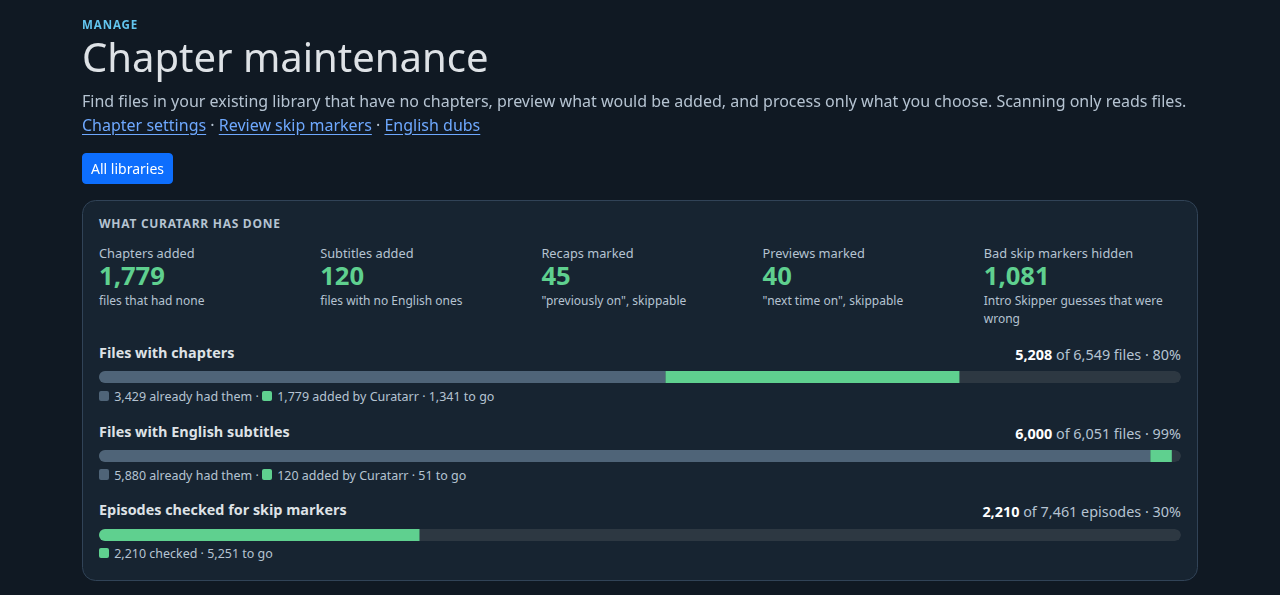
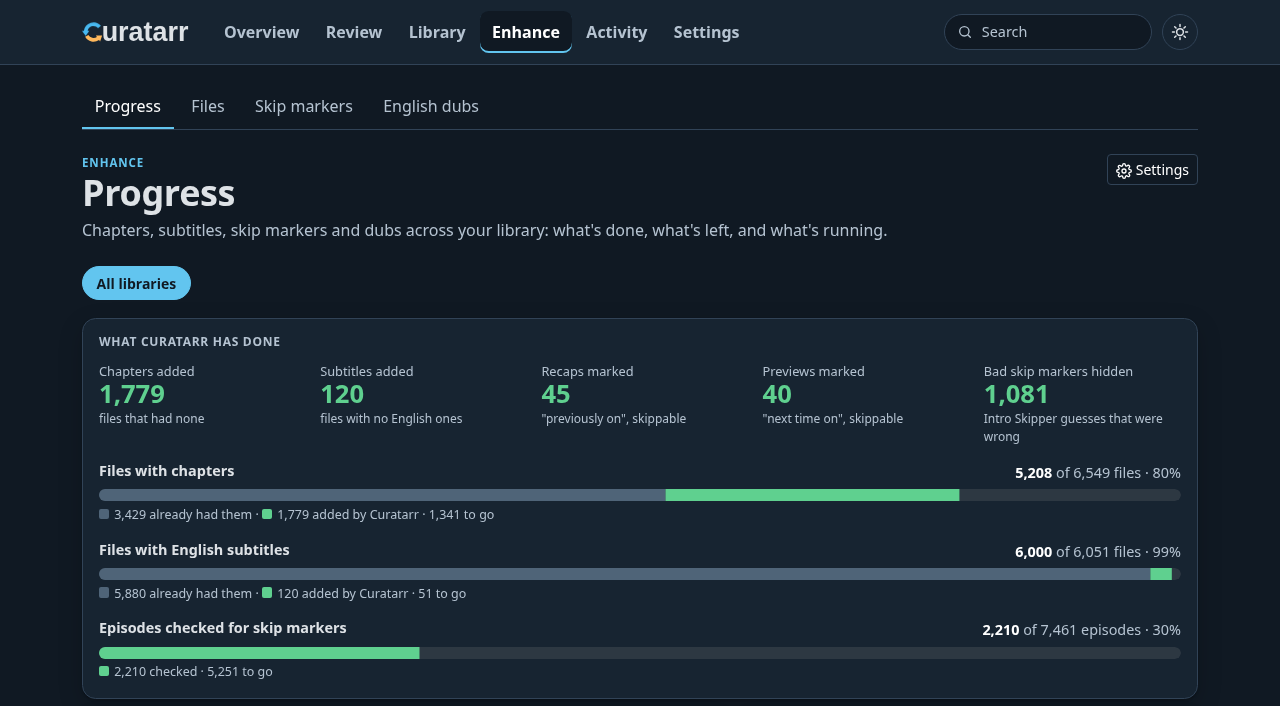
feat: Enhancements panel on title pages; docs follow the new layout
Each title's page shows, per file (episodes grouped by season, the newest
open), its chapters, generated subtitles, the recap and preview Curatarr
marked, the skip markers it fixed and the English-audio check, as chips,
each linking to the file's preview and actions. Page eyebrows, notices and
the docs now use Enhance and Settings instead of Manage and Chapter
maintenance, and the README screenshots show the new layout.

diff --git a/curatarr/templates/title.html b/curatarr/templates/title.html
@@ -19,10 +19,35 @@
 {% if is_admin and candidate.score_detail_json %}<details><summary>Decision score and observations</summary><pre class="overflow-auto">{{ candidate.score_detail_json|tojson(indent=2) }}</pre></details>{% endif %}</div>
 {% else %}<p class="mb-0">No cleanup decision has been recorded for this title.</p>{% endfor %}
 </div>
-{% if is_admin and chapter_rows %}<details class="card p-3 mb-4"{% if media.media_type == 'movie' %} open{% endif %}><summary class="h5 mb-0">Chapters</summary>
-<div class="table-responsive mt-3"><table class="table table-sm align-middle mb-0"><thead><tr>{% if media.media_type == 'series' %}<th scope="col">Episode</th>{% endif %}<th scope="col">Chapters</th><th scope="col">Source</th><th scope="col">Count</th><th scope="col">Last processed</th><th scope="col">Generated subtitles</th><th scope="col"><span class="visually-hidden">Actions</span></th></tr></thead><tbody>
-{% for part, chapters in chapter_rows %}<tr>{% if media.media_type == 'series' %}<td class="text-nowrap">S{{ '%02d'|format(part.season_number or 0) }}E{{ '%02d'|format(part.episode_number or 0) }}{{ jellyfin_part_link(part, media) }}</td>{% endif %}<td>{{ chapters.label }}{% if chapters.queued %} · queued{% endif %}</td><td>{{ chapters.source }}</td><td>{{ chapters.count if chapters.count is not none else '—' }}</td><td>{{ chapters.processed_at|when('date') if chapters.processed_at else '—' }}</td><td>{{ chapters.subtitles }}</td><td><a href="{{ url_for('main.chapter_part', part_id=part.id) }}">Preview and actions</a></td></tr>{% endfor %}
-</tbody></table></div></details>{% endif %}
+{% if is_admin and chapter_rows %}
+{% macro clock(seconds) %}{{ '%d:%02d'|format((seconds or 0) // 60, (seconds or 0) % 60) }}{% endmacro %}
+{% macro file_row(part, c) %}<li class="enh-row">
+  <div class="enh-name">{% if media.media_type == 'series' %}<strong>E{{ '%02d'|format(part.episode_number or 0) }}</strong>{% else %}<strong>{{ media.title }}</strong>{% endif %}{{ jellyfin_part_link(part, media) }}</div>
+  <div class="enh-chips">
+    <span class="chip{{ ' chip-on' if c.label in ('Generated', 'Existing') }}" title="Chapters: {{ c.label }}{% if c.source != '—' %}, {{ c.source }}{% endif %}">{{ icon('chapters', 12) }} {% if c.count %}{{ c.count }} chapters{% else %}{{ c.label }}{% endif %}{% if c.queued %} · queued{% endif %}</span>
+    {% if c.subtitles_ours %}<span class="chip chip-on" title="Generated subtitles">{{ icon('subtitles', 12) }} Generated subtitles</span>{% endif %}
+    {% if c.recap %}<span class="chip chip-accent" title="Recap Curatarr marked">{{ icon('skip', 12) }} Recap {{ clock(c.recap[0]) }}–{{ clock(c.recap[1]) }}</span>{% endif %}
+    {% if c.preview %}<span class="chip chip-accent" title="Preview Curatarr marked">{{ icon('skip', 12) }} Preview</span>{% endif %}
+    {% if c.markers_fixed %}<span class="chip" title="Intro Skipper markers Curatarr hid or trimmed">{{ c.markers_fixed }} marker{{ '' if c.markers_fixed == 1 else 's' }} fixed</span>{% endif %}
+    {% if c.dub %}<span class="chip chip-{{ c.dub[1] }}">{{ icon('audio', 12) }} {{ c.dub[0] }}</span>{% endif %}
+  </div>
+  <a class="enh-go" href="{{ url_for('main.chapter_part', part_id=part.id) }}" aria-label="Preview and actions for {{ 'E%02d'|format(part.episode_number or 0) if media.media_type == 'series' else media.title }}">Preview and actions {{ icon('chevron', 14) }}</a>
+</li>{% endmacro %}
+<section class="card p-3 mb-4" aria-labelledby="enhance-heading">
+  <h2 class="h5 mb-1" id="enhance-heading">{{ icon('enhance', 18) }} Enhancements</h2>
+  <p class="small text-secondary mb-3">What Curatarr has done to {{ 'each episode' if media.media_type == 'series' else 'this file' }}: chapters, generated subtitles, recaps and previews it marked, skip markers it fixed{% if media.media_type == 'movie' %}, and its English audio{% endif %}.</p>
+  {% if media.media_type == 'series' %}
+    {% set seasons = chapter_rows|groupby('0.season_number') %}
+    {% for season, rows in seasons %}
+    <details class="enh-season"{% if seasons|length == 1 or loop.last %} open{% endif %}><summary><strong>Season {{ season or 0 }}</strong><span class="small text-secondary">{{ rows|length }} episode{{ '' if rows|length == 1 else 's' }}{% set done = rows|selectattr('1.count')|list|length %} · {{ done }} with chapters</span>{{ icon('chevron', 16) }}</summary>
+      <ul class="enh-list list-unstyled mb-0">{% for part, c in rows %}{{ file_row(part, c) }}{% endfor %}</ul>
+    </details>
+    {% endfor %}
+  {% else %}
+    <ul class="enh-list list-unstyled mb-0">{% for part, c in chapter_rows %}{{ file_row(part, c) }}{% endfor %}</ul>
+  {% endif %}
+</section>
+{% endif %}
 {% if is_admin and actions %}<h2 class="h5">Recent history</h2><ul>{% for action in actions %}<li><a href="{{ url_for('main.history_detail', action_id=action.id) }}">{{ action.action_type.replace('_',' ')|title }}</a> · {{ action.state }} · {{ action.reason_text }}</li>{% endfor %}</ul>{% endif %}
 {% if is_admin %}<details class="mt-4"><summary class="h5">Advanced: overrides and effective policy</summary><div class="pt-3">
 <form method="post" class="card p-4"><input type="hidden" name="csrf_token" value="{{ csrf_token }}"><div class="row g-3">

diff --git a/curatarr/templates/chapter_dubs.html b/curatarr/templates/chapter_dubs.html
@@ -4,9 +4,9 @@
 {% macro film(state) %}<a class="h5" href="{{ url_for('main.chapter_part', part_id=state.media_part_id) }}">{{ file_label(state) }}</a>{{ jellyfin_part_link(state.part, state.media) }}<div class="small text-secondary text-break">{{ state.part.file_path }}</div>{% endmacro %}
 {% macro button(state, action, label, style='btn-outline-light') %}<form method="post" action="{{ url_for('main.chapter_dub_action', state_id=state.id, action=action) }}"><input type="hidden" name="csrf_token" value="{{ csrf_token }}"><button class="btn btn-sm {{ style }}">{{ label }}</button></form>{% endmacro %}
 {% block content %}
-<div class="eyebrow">Manage · <a href="{{ url_for('main.chapter_maintenance') }}">Chapter maintenance</a></div><h1>English dubs</h1>
+<div class="eyebrow">Enhance</div><h1>English dubs</h1>
 <p class="text-secondary">For films made in another language, Curatarr listens to a few moments of each audio track and checks it's the language its label says. Wrong labels are corrected and a real English track is made the default on their own (and, if that setting is on, tracks in other languages removed); a film with no English audio is listed here to replace. Films made in English are listened to only when their file has another language in it. {{ found.checked|commas }} foreign-language film{{ '' if found.checked == 1 else 's' }} checked so far.</p>
-{% if not enabled %}<div class="alert alert-secondary">This check is off. Turn on “Check English dubs of foreign films” in <a href="{{ url_for('main.chapter_settings') }}">Chapter settings</a> to use it.</div>{% endif %}
+{% if not enabled %}<div class="alert alert-secondary">This check is off. Turn on “Check English dubs of foreign films” in <a href="{{ url_for('main.chapter_settings') }}">Settings → Enhance</a> to use it.</div>{% endif %}
 <h2 class="h4">No English audio</h2>
 {% for state in found.to_act %}
 <div class="card p-3 mb-3">

diff --git a/curatarr/static/style.css b/curatarr/static/style.css
@@ -282,3 +282,23 @@ h1 { font-size: clamp(1.6rem, 1.2rem + 1.4vw, 2.25rem); font-weight: 600; letter
   .table-stack td[data-label]::before { content: attr(data-label) " · "; color: var(--app-muted); font-size: .8rem; }
   .table-stack td[colspan] { padding: .5rem 0; }
 }
+
+/* --- Title page: Enhancements panel ---------------------------------------------------- */
+#enhance-heading { display: flex; align-items: center; gap: .45rem; }
+#enhance-heading .icon { color: var(--app-accent); }
+.enh-season { border: 1px solid var(--app-border); border-radius: .7rem; background: var(--app-bg); }
+.enh-season + .enh-season { margin-top: .5rem; }
+.enh-season > summary { list-style: none; display: flex; align-items: center; gap: .7rem; padding: .65rem .9rem; }
+.enh-season > summary::-webkit-details-marker { display: none; }
+.enh-season > summary .icon { margin-left: auto; color: var(--app-muted); transition: transform .15s; }
+.enh-season[open] > summary .icon { transform: rotate(90deg); }
+.enh-season[open] > summary { border-bottom: 1px solid var(--app-border); }
+.enh-list { display: grid; }
+.enh-row { display: grid; grid-template-columns: minmax(4rem, auto) 1fr auto; align-items: center; gap: .4rem .9rem; padding: .55rem .9rem; }
+.enh-row + .enh-row { border-top: 1px solid var(--app-border); }
+.enh-chips { display: flex; flex-wrap: wrap; gap: .3rem; }
+.enh-go { font-size: .8rem; white-space: nowrap; text-decoration: none; display: inline-flex; align-items: center; gap: .1rem; }
+@media (max-width: 575.98px) {
+  .enh-row { grid-template-columns: 1fr auto; }
+  .enh-chips { grid-column: 1 / -1; grid-row: 2; }
+}

diff --git a/curatarr/templates/chapter_confirm.html b/curatarr/templates/chapter_confirm.html
@@ -1,7 +1,7 @@
 {% extends 'base.html' %}
 {% block title %}Process library · Curatarr{% endblock %}
 {% block content %}
-<div class="eyebrow">Manage · Chapter maintenance</div><h1>Add chapters to {{ name }}</h1>
+<div class="eyebrow">Enhance</div><h1>Add chapters to {{ name }}</h1>
 <div class="card p-4"><p>This queues <strong>{{ count }}</strong> file{{ '' if count == 1 else 's' }} without chapters in {{ name }}. Each is processed in the background, one or a few at a time, using <strong>{{ ('Smart Chapters' if config.mode == 'smart' else 'Navigation Chapters') }}</strong>{% if not library %} (or each library's own setting){% endif %}{% if config.processing.dry_run %} in <strong>dry run</strong> (nothing is modified){% endif %}.</p>
 <ul><li>Files scanned: {{ summary.scanned }} of {{ summary.files }}</li><li>Already have chapters (left alone): {{ summary.existing }}</li><li>Below the minimum length: {{ summary.short }}</li><li>Unsupported containers: {{ summary.unsupported }}</li>{% if config.mode == 'smart' and config.semantic.enabled %}<li>Would need transcription: {{ summary.transcription_estimate }} (each takes a few minutes of GPU time)</li>{% endif %}</ul>
 <p class="text-secondary">Chapters are written into each MKV file in place without re-encoding. Curatarr can remove the chapters it adds later, one file at a time.</p>

diff --git a/curatarr/templates/chapter_identity.html b/curatarr/templates/chapter_identity.html
@@ -1,9 +1,9 @@
 {% extends 'base.html' %}
 {% block title %}Possible wrong episodes · Curatarr{% endblock %}
 {% block content %}
-<div class="eyebrow">Manage · <a href="{{ url_for('main.chapter_maintenance') }}">Chapter maintenance</a></div><h1>Possible wrong episodes</h1>
+<div class="eyebrow">Enhance</div><h1>Possible wrong episodes</h1>
 <p class="text-secondary">Episodes whose transcript fits another episode's title and summary in Sonarr far better than their own (a misfiled or mislabelled download), or whose default audio isn't English. These are flags to check, not certainties: open the episode, and fix it in Sonarr if it's wrong. <strong>Dismiss</strong> one that's fine.</p>
-{% if not enabled %}<div class="alert alert-secondary">This check is off. Turn on “Check episodes against their summaries” in <a href="{{ url_for('main.chapter_settings') }}">Chapter settings</a> to use it.</div>
+{% if not enabled %}<div class="alert alert-secondary">This check is off. Turn on “Check episodes against their summaries” in <a href="{{ url_for('main.chapter_settings') }}">Settings → Enhance</a> to use it.</div>
 {% elif states %}
 {% for state in states %}{% set i = state.identity_issue %}
 <div class="card p-3 mb-3">

diff --git a/curatarr/templates/chapter_markers.html b/curatarr/templates/chapter_markers.html
@@ -2,7 +2,7 @@
 {% block title %}Skip markers · Curatarr{% endblock %}
 {% set kinds = {'recap': 'Recap marked', 'preview': 'Preview marked', 'hidden': 'Intro Skipper marker hidden'} %}
 {% block content %}
-<div class="eyebrow">Manage · <a href="{{ url_for('main.chapter_maintenance') }}">Chapter maintenance</a></div><h1>Skip markers</h1>
+<div class="eyebrow">Enhance</div><h1>Skip markers</h1>
 <p class="text-secondary">Recaps and previews Curatarr marked, and Intro Skipper markers it hid as wrong, newest first. Open an episode in Jellyfin and jump to the time shown to check it; <strong>Undo</strong> reverses one if it's wrong.</p>
 <div class="d-flex flex-wrap gap-2 mb-3" aria-label="Show">
   <a class="btn btn-sm {{ 'btn-primary' if not kind else 'btn-outline-light' }}" href="{{ url_for('main.chapter_markers') }}">Everything</a>

diff --git a/curatarr/templates/login.html b/curatarr/templates/login.html
@@ -4,7 +4,7 @@
 <div class="card p-4">
   <h1 class="h3">Sign in</h1>
   <p class="text-secondary">Use a Jellyfin administrator account or a household account enabled by an administrator. Curatarr checks your password with Jellyfin and does not store it.</p>
-  {% if demo_mode %}<p class="text-secondary small">Demo mode: sign in as <code>demo-admin</code> with password <code>demo</code>. An administrator can then enable <code>demo-viewer</code> in Manage.</p>{% endif %}
+  {% if demo_mode %}<p class="text-secondary small">Demo mode: sign in as <code>demo-admin</code> with password <code>demo</code>. An administrator can then enable <code>demo-viewer</code> in Settings → Integrations.</p>{% endif %}
   <form method="post">
     <input type="hidden" name="csrf_token" value="{{ csrf_token }}">
     {% if needs_server_url %}

diff --git a/curatarr/enrichment.py b/curatarr/enrichment.py
@@ -2153,7 +2153,32 @@ def describe(state: ChapterState | None) -> dict:
         }.get(state.subtitle_status if state else None, "—"),
         "subtitles_ours": bool(state and state.subtitle_fingerprint),
         "queued": bool(state and state.job_state in {"queued", "running"}),
+        "recap": (state.recap_start, state.recap_end)
+        if state and state.recap_end is not None
+        else None,
+        "preview": (state.preview_start, state.preview_end)
+        if state and state.preview_start is not None
+        else None,
+        "markers_fixed": len(state.markers_hidden or []) if state else 0,
+        "dub": _dub_label(state.dub_result if state else None),
     }
+
+
+def _dub_label(result) -> tuple[str, str] | None:
+    """(text, tone) for a film's dub check, or None when there's nothing to say."""
+    if not result or "verdict" not in result:
+        return None
+    if result.get("replaced"):
+        return "Replaced: no English audio", "accent"
+    if result["verdict"] == "no_english":
+        return "No English audio", "danger"
+    if result.get("removed"):
+        return "Other languages removed", "on"
+    if result.get("applied"):
+        return "English audio fixed", "on"
+    if result["verdict"] == "english":
+        return "English audio", "on"
+    return None
 
 
 def environment_status() -> dict:

diff --git a/tests/test_enrichment.py b/tests/test_enrichment.py
@@ -2059,3 +2059,22 @@ def test_credits_people_talk_through_are_trimmed_and_can_be_undone(
     enrichment.undo_marker(state, "hidden", "long")
     assert ("DELETE", "/Episode/jf-ep4/Segments/ours-Credits", None) in calls
     assert ("POST", "/Episode/jf-ep4/Segments/long/Restore", None) in calls
+
+
+def test_title_page_shows_what_curatarr_did_to_each_file(app, client, media_env):
+    _library, media, part = _movie()
+    state = enrichment.state_for(part)
+    state.duration_seconds, state.chapter_status, state.chapter_count = (
+        5400,
+        "generated_semantic",
+        9,
+    )
+    state.recap_start, state.recap_end = 0.0, 82.0
+    state.markers_hidden = [{"id": "x", "type": "Credits", "reason": "test"}]
+    state.dub_result = {"original": "fr", "verdict": "no_english"}
+    db.session.commit()
+    page = client.get(f"/titles/{media.id}").get_data(as_text=True)
+    panel = page.split('id="enhance-heading"')[1].split("</section>")[0]
+    assert "9 chapters" in panel and "Recap 0:00–1:22" in panel
+    assert "1 marker fixed" in panel and "No English audio" in panel
+    assert f"/chapters/parts/{part.id}" in panel

diff --git a/curatarr/chapter_routes.py b/curatarr/chapter_routes.py
@@ -92,7 +92,7 @@ def chapter_settings():
             db.session.rollback()
             flash(str(exc), "danger")
         else:
-            flash("Chapter settings saved", "success")
+            flash("Enhance settings saved", "success")
         return redirect(request.full_path.rstrip("?"))
     inherited = effective_config(global_layer()) if library else DEFAULTS
     effective = (

diff --git a/docs/FEATURES.md b/docs/FEATURES.md
@@ -9,7 +9,7 @@
 - [Search what was said](#search-what-was-said)
 - [Sharing the machine with playback](#sharing-the-machine-with-playback)
 
-The interface groups daily decisions under **Overview** and **Review**, title browsing under **Library**, and administrator controls under **Activity** and **Manage**. The theme button in the header switches between dark and light for that browser.
+The interface groups daily decisions under **Overview** and **Review**, title browsing under **Library**, and file improvements under **Enhance**, and administrator controls under **Activity** and **Settings**. The theme button in the header switches between dark and light for that browser.
 
 ---
 
@@ -21,7 +21,7 @@ Sign in with a Jellyfin account that has the **Administrator** permission, or wi
 - After five failed sign-ins from one address within 15 minutes, further attempts are refused until the window passes.
 - On first run, the sign-in page also asks for the Jellyfin server URL and binds Curatarr to it. Until that first administrator signs in, anyone who can reach the page could bind a different server, so keep Curatarr on a trusted network until setup is done, or set `CURATARR_JELLYFIN_URL` so the server is fixed from the start.
 
-**Household access.** Administrators can enable specific non-admin Jellyfin users in Manage → Integrations → Household access. Those users can browse managed titles, search what was said, and choose **Keep**, **Snooze** or **Never Purge** in Review. They can't approve deletion, change rules or integrations, run discovery, reset or request a show, or see full History and Operations. Curatarr rechecks their Jellyfin account periodically and ends a household session as soon as its allowlist entry is removed.
+**Household access.** Administrators can enable specific non-admin Jellyfin users in Settings → Integrations → Household access. Those users can browse managed titles, search what was said, and choose **Keep**, **Snooze** or **Never Purge** in Review. They can't approve deletion, change rules or integrations, run discovery, reset or request a show, or see full History and Operations. Curatarr rechecks their Jellyfin account periodically and ends a household session as soon as its allowlist entry is removed.
 
 `/health`, `/api/v1/status` and the token-protected webhook stay public for dashboards. Every other page and API endpoint requires sign-in, and operational APIs require administrator access (or the read-only API key; see [API](API.md)). Set `CURATARR_ALLOW_UNAUTHENTICATED=true` only when another layer, such as an authenticating reverse proxy, already restricts access: it grants the full admin interface.
 
@@ -75,7 +75,7 @@ Policy resolves **title override → library → global → built-in default**. 
 
 ## Chapters and subtitles
 
-Optional, and off until you enable it per library in **Manage → Chapters → Chapter settings**.
+Optional, and off until you enable it per library in **Settings → Enhance**.
 
 After Sonarr or Radarr finish importing a movie or episode of at least 20 minutes that has no chapters, Curatarr adds them:
 
@@ -85,9 +85,9 @@ After Sonarr or Radarr finish importing a movie or episode of at least 20 minute
 Chapters are written into MKV files in place with `mkvpropedit`, which re-encodes nothing; other containers are reported as unsupported. Every file is verified afterwards, and only that item is refreshed in Jellyfin.
 
 - **Existing chapters are preserved.** Curatarr regenerates or removes only chapters it can show it wrote, and keeps the originals of any it replaced.
-- **Your existing library is never processed by surprise.** Chapter maintenance scans it read-only, shows what's done and what's left, and processes only the files or libraries you confirm. Each file's page shows a preview: the scene changes, the plan from each method, and the exact write command, before anything is modified.
+- **Your existing library is never processed by surprise.** Enhance → Files scans it read-only, shows what's done and what's left, and processes only the files or libraries you confirm. Each file's page shows a preview: the scene changes, the plan from each method, and the exact write command, before anything is modified.
 - **Subtitles.** The same transcript can produce English subtitles (`<video>.en.Curatarr.srt`), a separate per-library setting. They're added only when a file has no English subtitles of its own, never written over another file, and removable from the file's page.
-- **Progress.** Chapter maintenance leads with what Curatarr has done (chapters and subtitles added, recaps and previews marked, bad markers hidden) and how much of the library is covered, then what's left to do, with an estimated finish based on the last day's pace.
+- **Progress.** Enhance → Progress leads with what Curatarr has done (chapters and subtitles added, recaps and previews marked, bad markers hidden) and how much of the library is covered, then what's left to do, with an estimated finish based on the last day's pace.
 
 Smart Chapters needs the `chapters` or `chapters-gpu` extra, Ollama with a model, and write access to the media files for the worker (see [Installing](INSTALL.md#optional-chapter-generation)). `flask --app curatarr chapters preview <file>` prints the full analysis for one file without changing it. Design notes: [decision 009](decisions/009-chapter-enrichment.md).
 
@@ -95,14 +95,14 @@ Smart Chapters needs the `chapters` or `chapters-gpu` extra, Ollama with a model
 
 ## Recaps, previews and skip markers
 
-With the Jellyfin **Intro Skipper** plugin installed, Curatarr improves the skip buttons Jellyfin shows. It works on episodes in libraries with Smart Chapters. Press **Check skip markers** in Chapter maintenance to check every episode not yet checked (press it again later for newly added ones), or check one episode from its page. Checks reuse Smart Chapters transcripts where they exist and wait while a chapter backlog is running.
+With the Jellyfin **Intro Skipper** plugin installed, Curatarr improves the skip buttons Jellyfin shows. It works on episodes in libraries with Smart Chapters. Press **Check skip markers** on Enhance → Progress to check every episode not yet checked (press it again later for newly added ones), or check one episode from its page. Checks reuse Smart Chapters transcripts where they exist and wait while a chapter backlog is running.
 
 - **Recaps.** A *"Previously on…"* segment is found from the opening transcript: a known opener phrase ("previously on", "last time on", "here's what you missed", …), and an end found from the series' own closing line or from where the quoted clips of earlier episodes stop. It's marked as an Intro Skipper **Recap** segment and, if the chapters are Curatarr's, a *Previously On* chapter.
 - **Previews.** A *"Next time on…"* segment at the end is marked as a **Preview** segment.
 - **Bad markers hidden.** Intro Skipper sometimes guesses wrong: a short "credits" marker with lots of dialogue after it, credits in the first quarter of an episode, an "intro" that's mostly unique dialogue. Curatarr hides those, recording why.
 - **Movies keep only their credits marker** (on by default). Opening chapter names like "Chapter 1" made Intro Skipper mark recaps and intros at the start of movies; they're hidden. Credits stay, for *Skip Credits* and *Next*.
 
-Everything is listed on **Review skip markers**, newest first, with the span, the reason and a link to the episode, and each change has **Undo**.
+Everything is listed on **Enhance → Skip markers**, newest first, with the span, the reason and a link to the episode, and each change has **Undo**.
 
 Jellyfin decides per user whether to show a Skip button for each segment type (Settings → Playback → Media segments). Some clients, such as the Roku app, keep their own per-device setting.
 
@@ -110,7 +110,7 @@ Jellyfin decides per user whether to show a Skip button for each segment type (S
 
 ## English dubs
 
-For households that watch films dubbed rather than subtitled. On by default; settings in Chapter settings.
+For households that watch films dubbed rather than subtitled. On by default; settings in Settings → Enhance.
 
 Radarr can grab an English dub of a film made in another language, but uploads are sometimes labelled English when the audio is really the original. For films whose original language (from Radarr) isn't English, and for English films whose file also carries other languages, Curatarr **listens**: five 20-second clips from the middle of the film, per audio track, through Whisper's language identification, with a voice filter so music isn't mistaken for speech. A track's language counts only when most clips agree with high confidence. This is not a transcription, and takes seconds per film.
 
@@ -133,7 +133,7 @@ For Radarr to grab dubs in the first place, its quality profile's language must 
 
 ## Search what was said
 
-**Library → Search what was said** (and `GET /api/v1/transcripts/search?q=…`) finds an episode or film by a line or what's talked about in it, across every transcript Smart Chapters has made. An exact phrase ranks first, then short windows holding most of the words; each result shows the moment's lines and timestamp, linked to the episode. Words are matched by rough stem ("frying" finds "fry"). Household accounts can use it too.
+**Search** (the box in the header, or Library → Search) (and `GET /api/v1/transcripts/search?q=…`) finds an episode or film by a line or what's talked about in it, across every transcript Smart Chapters has made. An exact phrase ranks first, then short windows holding most of the words; each result shows the moment's lines and timestamp, linked to the episode. Words are matched by rough stem ("frying" finds "fry"). Household accounts can use it too.
 
 ---
 
@@ -146,4 +146,4 @@ Chapter work is heavy (scene detection, transcription, a language model), and th
 - Below the target it adds a job, one a minute. Above it, nothing new starts and running jobs finish.
 - With **Make room for people watching** on, if someone is watching and the machine stays well over the target for 30 seconds, running jobs are suspended for at least two minutes and resume once there's room.
 
-**Chapter jobs at once** (1–8) is only the ceiling. The Activity card on Chapter maintenance says what was measured and decided, for example *Up to 3 chapter jobs right now · CPU 42%, 1 watching (aiming under 70%)*.
+**Chapter jobs at once** (1–8) is only the ceiling. The Activity card on Enhance → Progress says what was measured and decided, for example *Up to 3 chapter jobs right now · CPU 42%, 1 watching (aiming under 70%)*.

diff --git a/docs/INSTALL.md b/docs/INSTALL.md
@@ -93,7 +93,7 @@ Chapters, subtitles, recap and preview detection, and dub checks need a few more
    sudo systemctl restart curatarr-worker
    ```
 
-Then switch it on per library in **Manage → Chapters → Chapter settings**. If Sonarr and Radarr see the files under a different path than this machine does, add a path mapping there (for example `/tv => /mnt/media/tv`).
+Then switch it on per library in **Settings → Enhance**. If Sonarr and Radarr see the files under a different path than this machine does, add a path mapping there (for example `/tv => /mnt/media/tv`).
 
 ### Change settings
 
@@ -205,7 +205,7 @@ services:
               capabilities: [gpu]
 ```
 
-Then run `docker compose up -d --build`. Only the worker needs the media. In Chapter settings, add a path mapping from how Sonarr and Radarr see the files to `/media` (for example `/tv => /media/tv`), and point the Ollama URL at an Ollama the container can reach (for Ollama on the host, `http://host.docker.internal:11434` with `extra_hosts: ["host.docker.internal:host-gateway"]` on the worker, or the host's LAN address). Transcription models download to `/config/models`.
+Then run `docker compose up -d --build`. Only the worker needs the media. In Settings → Enhance, add a path mapping from how Sonarr and Radarr see the files to `/media` (for example `/tv => /media/tv`), and point the Ollama URL at an Ollama the container can reach (for Ollama on the host, `http://host.docker.internal:11434` with `extra_hosts: ["host.docker.internal:host-gateway"]` on the worker, or the host's LAN address). Transcription models download to `/config/models`.
 
 ---
 
@@ -298,7 +298,7 @@ Logs: `docker compose logs --tail=100 web worker`. Don't use `docker compose dow
 ## First run
 
 1. **Sign in.** Open `http://<your-server>:8787` and sign in with a Jellyfin **administrator** account. On the very first sign-in, also enter your Jellyfin server's address (unless `CURATARR_JELLYFIN_URL` is set). Do this before exposing Curatarr beyond a trusted network: until then, anyone who can reach the page could bind it to a different server.
-2. **Connect your apps.** Follow the **Setup** checklist (Manage → Setup) and add the API keys in Manage → Integrations:
+2. **Connect your apps.** Follow the **Setup** checklist (Settings → Setup) and add the API keys in Settings → Integrations:
    - **Jellyfin:** Dashboard → API Keys → **+** (default port 8096)
    - **Sonarr:** Settings → General → Security → API Key (default port 8989)
    - **Radarr:** Settings → General → Security → API Key (default port 7878)
@@ -309,9 +309,9 @@ Logs: `docker compose logs --tail=100 web worker`. Don't use `docker compose dow
    - Add the request header `X-Curatarr-Token` with the token shown once on the Integrations page (generate a new one there if you missed it)
 
    Without the webhook, the hourly reconciliation still picks up playback, just later.
-4. **Discover.** Click **Discover** on Overview. It runs in the background; a large library takes about a minute. Manage → Operations shows when it's done.
-5. **Review the rules.** Look over Manage → Acquisition and Manage → Retention. Every library starts in **dry run**: Curatarr goes through the whole process and records what it *would* remove in History, but deletes nothing. Turn dry run off globally or per library when you're happy.
-6. **Optional:** switch on chapters per library in Manage → Chapters, and allow household members in Manage → Integrations → Household access.
+4. **Discover.** Click **Discover** on Overview. It runs in the background; a large library takes about a minute. Settings → Operations shows when it's done.
+5. **Review the rules.** Look over Settings → Acquisition and Settings → Retention. Every library starts in **dry run**: Curatarr goes through the whole process and records what it *would* remove in History, but deletes nothing. Turn dry run off globally or per library when you're happy.
+6. **Optional:** switch on chapters per library in Settings → Enhance, and allow household members in Settings → Integrations → Household access.
 
 ---
 
